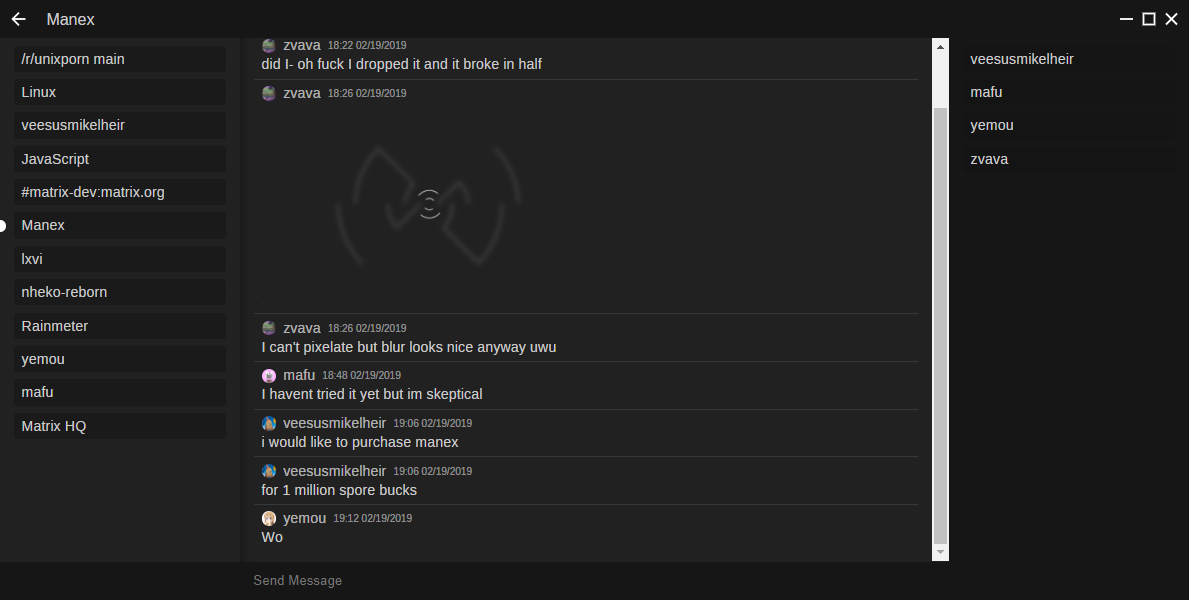
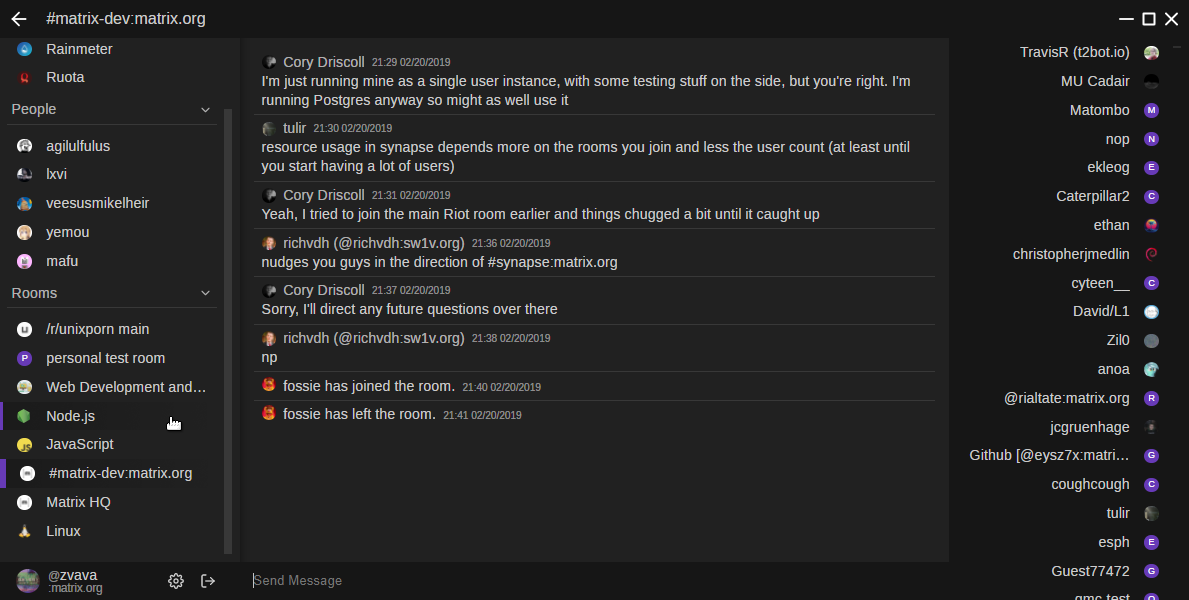
add main menu information

diff --git a/src/manex.js b/src/manex.js
@@ -11,29 +11,35 @@ let client;
 let loadingSplash = document.getElementById("loading-splash");
 let loginWrapper = document.getElementById("login-wrapper");
 let chatWrapper = document.getElementById("chat-wrapper");
+// get dialogs
+let contextContainer = document.getElementById("context-container");
+let contextMenu = document.getElementById("context");
+let dialogContainer = document.getElementById("dialog");
 // get lists
 let roomList = document.getElementById("room-list");
 let messageList = document.getElementById("message-list");
 let memberList = document.getElementById("member-list");
+// get menus
+let roomClose = document.getElementById("room-close");
+let roomTitle = document.getElementById("room-title");
+let mainMenu = document.getElementById("main-menu");
 // get message box
 let messageBoxFormContainer = document.getElementById("messagebox-form-container");
 let messageBoxForm = document.getElementById("messagebox-form");
 let messageBox = document.getElementById("messagebox");
-// get other shit
-let contextContainer = document.getElementById("context-container");
-let contextMenu = document.getElementById("context");
-let dialogContainer = document.getElementById("dialog");
-let roomTitle = document.getElementById("room-title");
-let roomClose = document.getElementById("room-close");
 
-// temp data store
-let favoriteRooms = undefined;
-let directRooms = undefined;
-let rooms = undefined;
+// cache
+let favoriteRooms,
+    directRooms,
+    user,
+    rooms;
+
+// temp data
 let currentRoom = undefined;
-let ctrl = false;
-let shift = false;
-let alt = false;
+// key modifiers
+let ctrl = false,
+    shift = false,
+    alt = false;
 
 { // preserve window size
 	let size = JSON.parse(window.localStorage.size || "{}");
@@ -105,10 +111,53 @@ let alt = false;
 			client.once("sync", (state, prevState, data) => {
 				if (state == "PREPARED") {
 					getRooms();
+					getUser();
 					hideLoading();
 				}
 			});
 		});
+	}
+
+	function getUser() {
+		user = client.getUser(client.getUserId());
+
+		mainMenu.innerHTML = "";
+
+		let avatar = getUserAvatar(user);
+			mainMenu.appendChild(avatar);
+
+		{ // user info
+			let container = document.createElement("div");
+				container.classList.add("user-info");
+				mainMenu.appendChild(container);
+
+			let nameContainer = document.createElement("div");
+				container.appendChild(nameContainer);
+
+			let type = document.createElement("span");
+				type.innerText = "@";
+				nameContainer.appendChild(type);
+
+			nameContainer.append(user.userId.split(":")[0].substring("1"));
+
+			let domain = document.createElement("span");
+				domain.innerText = ":matrix.org";
+				container.appendChild(domain);
+		}
+
+		{ // add buttons
+			let container = document.createElement("div");
+				container.classList.add("actions");
+				mainMenu.appendChild(container);
+
+			let settings = document.createElement("div");
+				settings.classList.add("settings");
+				container.appendChild(settings);
+
+			let logout = document.createElement("div");
+				logout.classList.add("logout");
+				container.appendChild(logout);
+		}
 	}
 
 	function getRooms() {
@@ -588,7 +637,9 @@ let alt = false;
 			if (member.getMxcAvatarUrl()) {
 				avi = member.getAvatarUrl().replace("undefined", "https://matrix.org");
 			}
-		} else {
+		} else if (member.avatarUrl) {
+			avi = client.mxcUrlToHttp(member.avatarUrl);
+		} else if (member.getAvatarFallbackMember) {
 			if (member.getAvatarFallbackMember()) {
 				avi = member.getAvatarFallbackMember().getAvatarUrl().replace("undefined", "https://matrix.org");
 			} else if (ifResource(member.getAvatarUrl().replace("undefined", "https://matrix.org"))) {
@@ -599,8 +650,10 @@ let alt = false;
 		if (avi) {
 			avatar.style.backgroundImage = `url("${avi}")`;
 		} else {
+			let name = member.name || member.displayName;
+
 			avatar.classList.add("none");
-			avatar.setAttribute("data", member.name[0] == "@" ? member.name[1] : member.name[0]);
+			avatar.setAttribute("data", name[0] == "@" ? name[1] : name[0]);
 		}
 
 		return avatar;

diff --git a/src/manex.css b/src/manex.css
@@ -141,6 +141,14 @@ input[type="button"], input[type="submit"] {
 	display: none !important;
 }
 
+.avatar {
+	width: 1em;
+	height: 1em;
+	background-size: cover;
+	background-position: center;
+	border-radius: 50%;
+}
+
 .avatar.none {
 	background: var(--accent);
 	display: flex;
@@ -154,6 +162,21 @@ input[type="button"], input[type="submit"] {
 	text-transform: uppercase;
 	font-size: 0.6em;
 }
+
+.actions > * {
+	width: 1.4em;
+	height: 1.4em;
+	display: inline-block;
+	background-position: center;
+	background-size: contain;
+	cursor: pointer;
+}
+
+.actions > .settings { background-image: url("img/button/settings.svg"); }
+.actions > .logout   { background-image: url("img/button/logout.svg");   }
+.actions > .minimize { background-image: url("img/button/minimize.svg"); }
+.actions > .maximize { background-image: url("img/button/maximize.svg"); }
+.actions > .close    { background-image: url("img/button/close.svg");    }
 
 /* fonts */
 
@@ -189,19 +212,6 @@ input[type="button"], input[type="submit"] {
 	margin-right: 0.4em;
 	display: flex;
 }
-
-.titlebar > .actions > * {
-	width: 1.4em;
-	height: 1.4em;
-	display: inline-block;
-	background-position: center;
-	background-size: contain;
-	cursor: pointer;
-}
-
-.titlebar > .actions > .minimize { background-image: url("img/button/minimize.svg"); }
-.titlebar > .actions > .maximize { background-image: url("img/button/maximize.svg"); }
-.titlebar > .actions > .close    { background-image: url("img/button/close.svg");    }
 
 /* loading screen */
 
@@ -421,7 +431,10 @@ input[type="button"], input[type="submit"] {
 
 .room-list-container > .main-menu {
 	height: 2.4em;
+	padding: 0 1em;
 	background: #161616;
+	display: flex;
+	align-items: center;
 }
 
 .wrapper.chat > .content {
@@ -462,6 +475,50 @@ input[type="button"], input[type="submit"] {
 	width: 240px;
 	background: #161616;
 	overflow: auto;
+}
+
+/* main menu */
+
+.room-list-container > .main-menu > .avatar {
+	width: 1.5em;
+	height: 1.5em;
+	margin-right: 0.5em;
+}
+
+.room-list-container > .main-menu > .user-info {
+	flex: 1;
+	font-size: 0.9em;
+	-webkit-user-select: initial;
+}
+
+.room-list-container > .main-menu > .user-info span {
+	color: rgba(255, 255, 255, 0.5);
+	font-size: 0.8em;
+}
+
+.room-list-container > .main-menu > .user-info > :last-child {
+	display: block;
+	margin-top: -0.4em;
+}
+
+.room-list-container > .main-menu > .actions {
+	display: flex;
+	align-items: center;
+}
+
+.room-list-container > .main-menu > .actions > * {
+	width: 1em;
+	height: 1em;
+	padding: 0.5em;
+	background-size: 50%;
+	background-repeat: no-repeat;
+	border-radius: 50%;
+	opacity: 0.8;
+	transition: background-color 0.2s;
+}
+
+.room-list-container > .main-menu > .actions > *:hover {
+	background-color: rgba(255, 255, 255, 0.08);
 }
 
 /* room menu */
@@ -564,12 +621,7 @@ input[type="button"], input[type="submit"] {
 }
 
 .room-list > .list > .room > .avatar {
-	width: 1em;
-	height: 1em;
 	margin-right: 1em;
-	background-size: cover;
-	background-position: center;
-	border-radius: 50%;
 }
 
 .room-list > .list > .room > span {
@@ -599,12 +651,7 @@ input[type="button"], input[type="submit"] {
 }
 
 .member-list > .member > .avatar {
-	width: 1em;
-	height: 1em;
 	margin-left: 1em;
-	background-size: cover;
-	background-position: center;
-	border-radius: 50%;
 }
 
 .member-list > .member > span {
@@ -624,12 +671,7 @@ input[type="button"], input[type="submit"] {
 }
 
 .message .avatar {
-	width: 1em;
-	height: 1em;
 	margin-right: 0.5em;
-	background-size: cover;
-	background-position: center;
-	border-radius: 50%;
 }
 
 .message-list > .message > .author > .title {
@@ -674,9 +716,9 @@ input[type="button"], input[type="submit"] {
 }
 
 .message > .avatar {
-	display: inline-block;
 	margin-right: 0;
 	margin-left: 0.5em;
+	display: inline-block;
 }
 
 .message > .avatar.none {

diff --git a/src/index.html b/src/index.html
@@ -47,7 +47,7 @@
 				<div id="room-title" class="room-title">Manex</div>
 			</div>
 			<div id="room-list" class="room-list"></div>
-			<div class="main-menu"></div>
+			<div id="main-menu" class="main-menu"></div>
 		</div>
 		<div class="content">
 			<div class="titlebar">

diff --git a/README.md b/README.md
@@ -1,16 +1,17 @@
 # manex
 The matrix client.
 
+Come discuss Manex with other Manex-headed individuals at [#manex:matrix.org](https://matrix.to/#/!VcucjFBPGgOCxWqUef:matrix.org?via=matrix.org)
+
 ![manex login](https://raw.githubusercontent.com/mininmobile/manex/master/docs/src/img/screenshot_login.png)
 ![manex chat](https://raw.githubusercontent.com/mininmobile/manex/master/docs/src/img/screenshot_chat.png)
 
 ## Features
 * [x] send and read messages to and from your rooms
-* [ ] quoting, forwarding, mentions, and room mentions
+* [x] sort rooms into categories
 * [ ] full customizable, support for themes and plugins/extensions
 * [ ] room/member options
 * [ ] create rooms
-* [ ] favorite rooms
 
 ## Running
 Currently, you *could* build manex but since there are rapid updates and the fact that it is in very, very early development means you wouldn't want to use it as your daily driver. But this is how you would run it if you wanted to try it out/help out with development;
